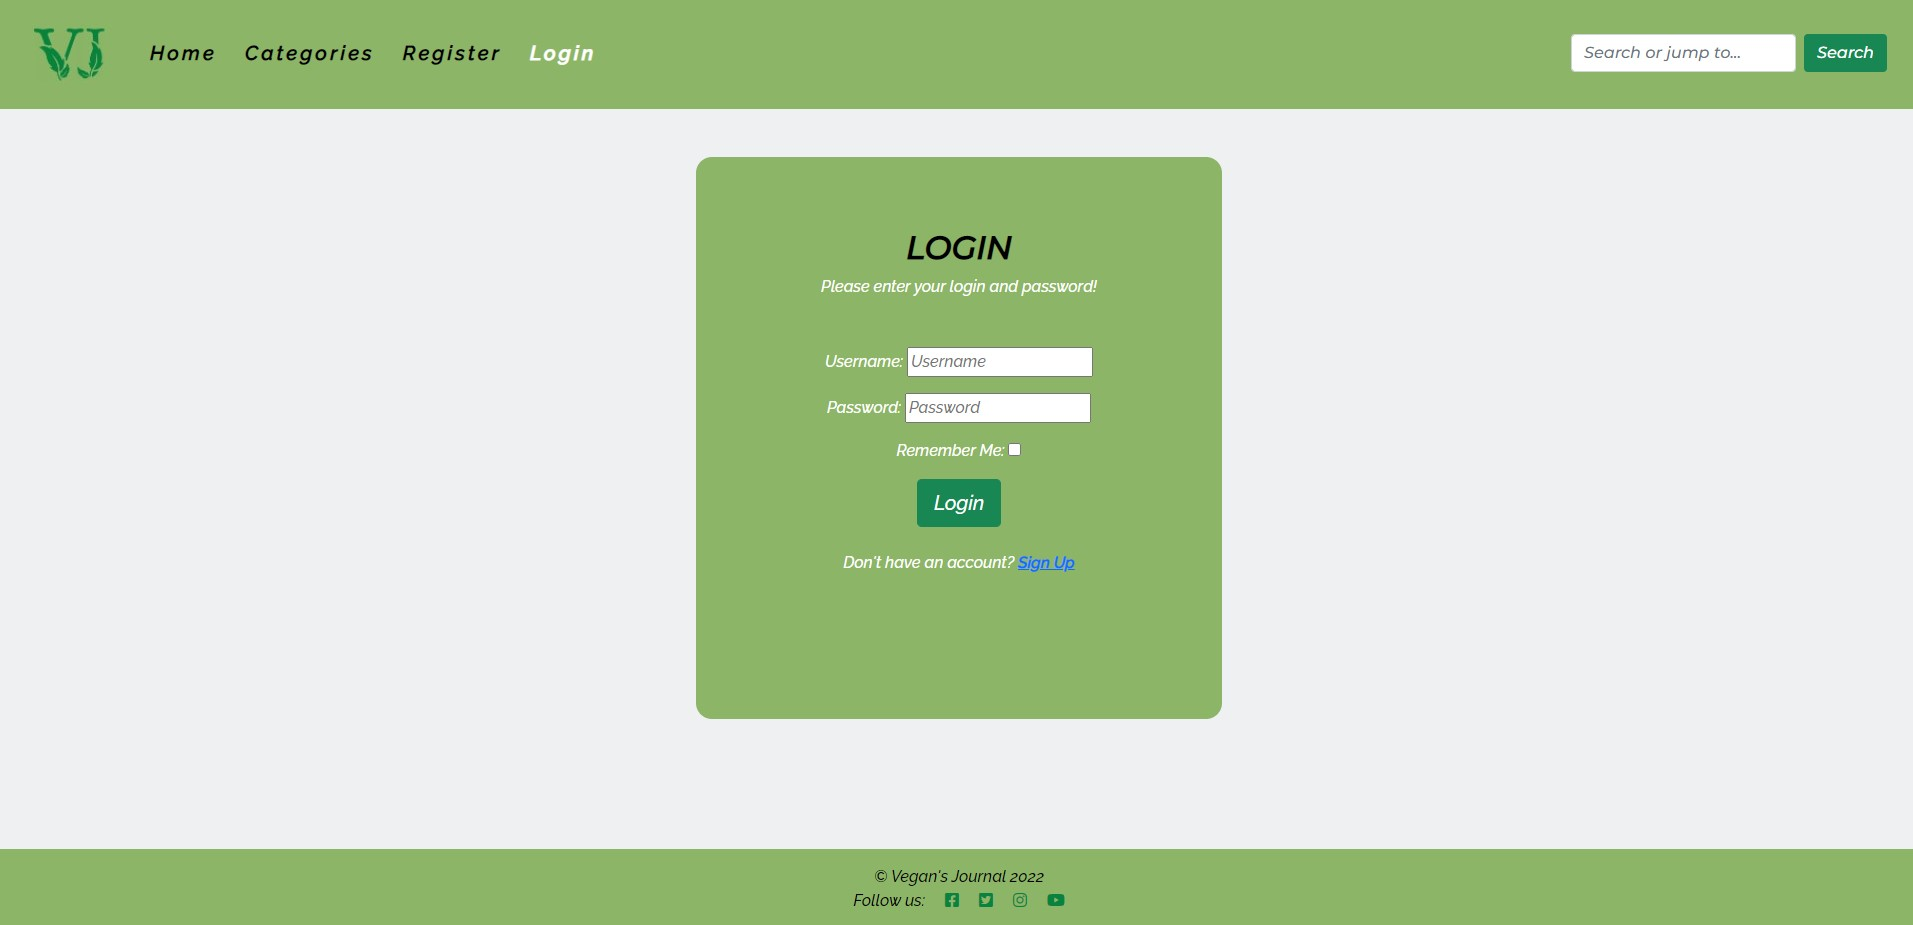
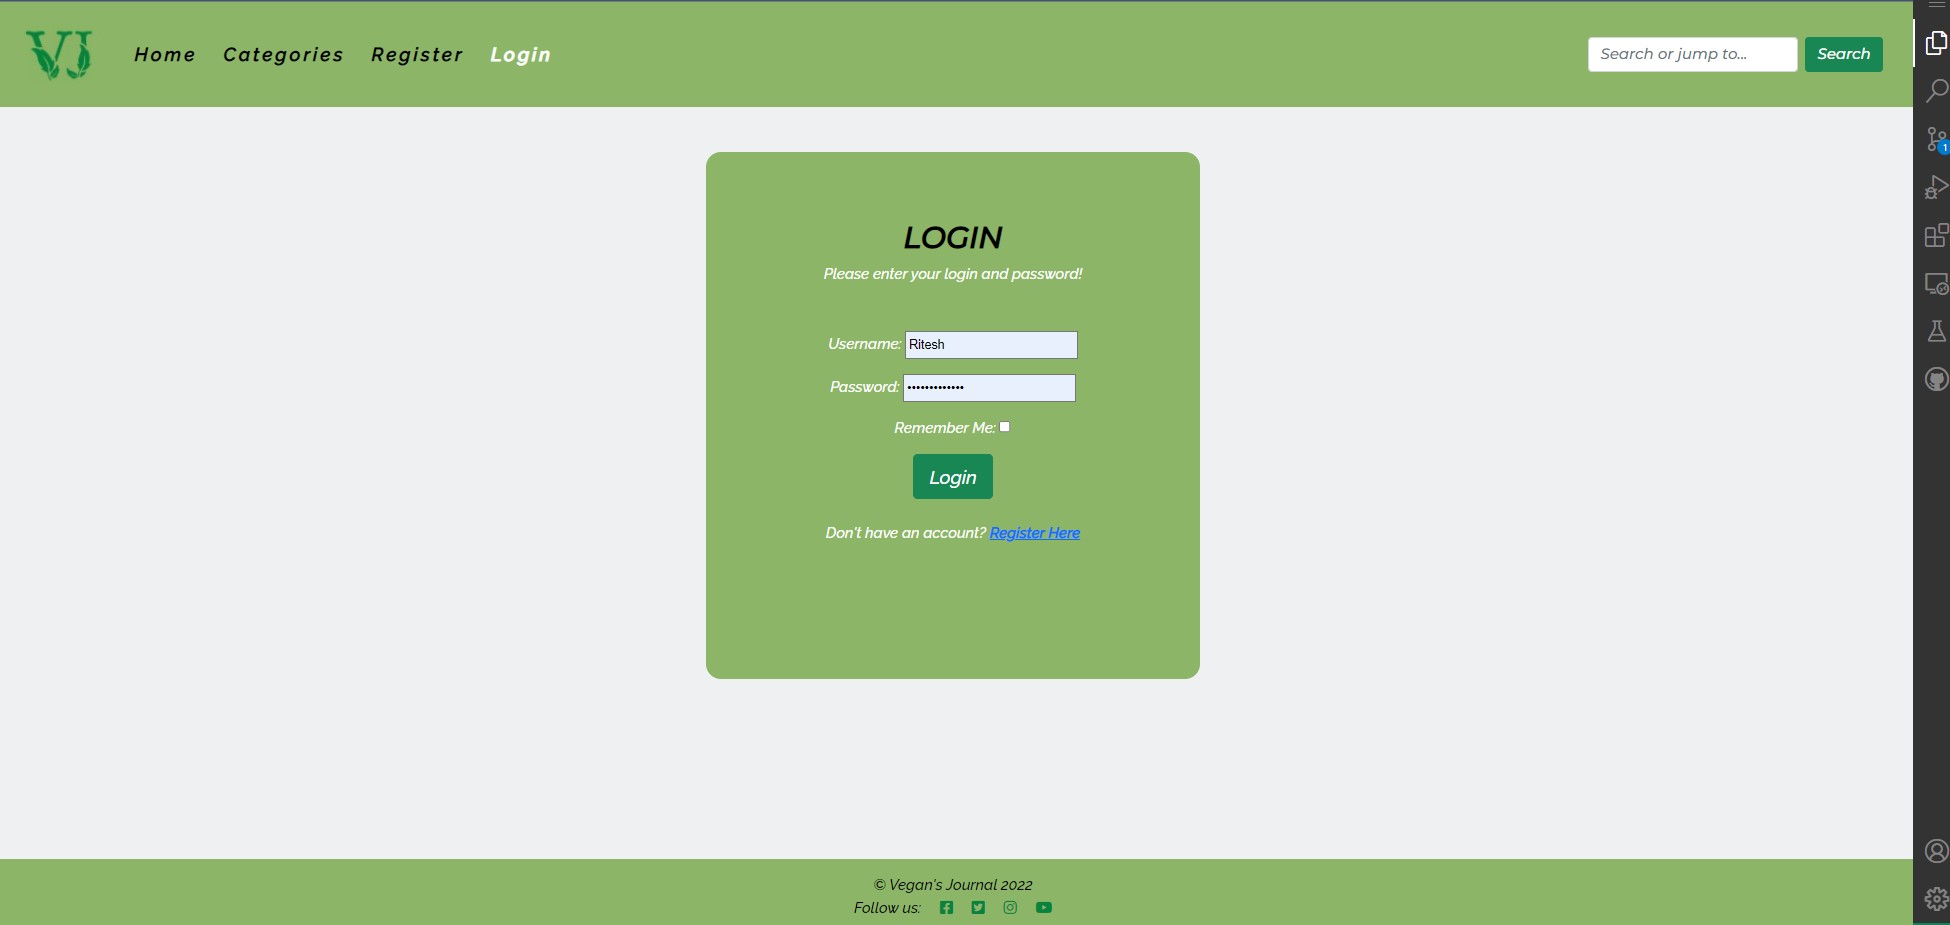
Update login page

diff --git a/templates/account/login.html b/templates/account/login.html
@@ -21,7 +21,7 @@
                 </div>
                 <div>
                   <p class="mb-0">Don't have an account?
-                    <a href="{{ signup_url }}" class="fw-bold">Sign Up
+                    <a href="{{ signup_url }}" class="fw-bold">Register Here
                     </a>
                   </p>
                 </div>
